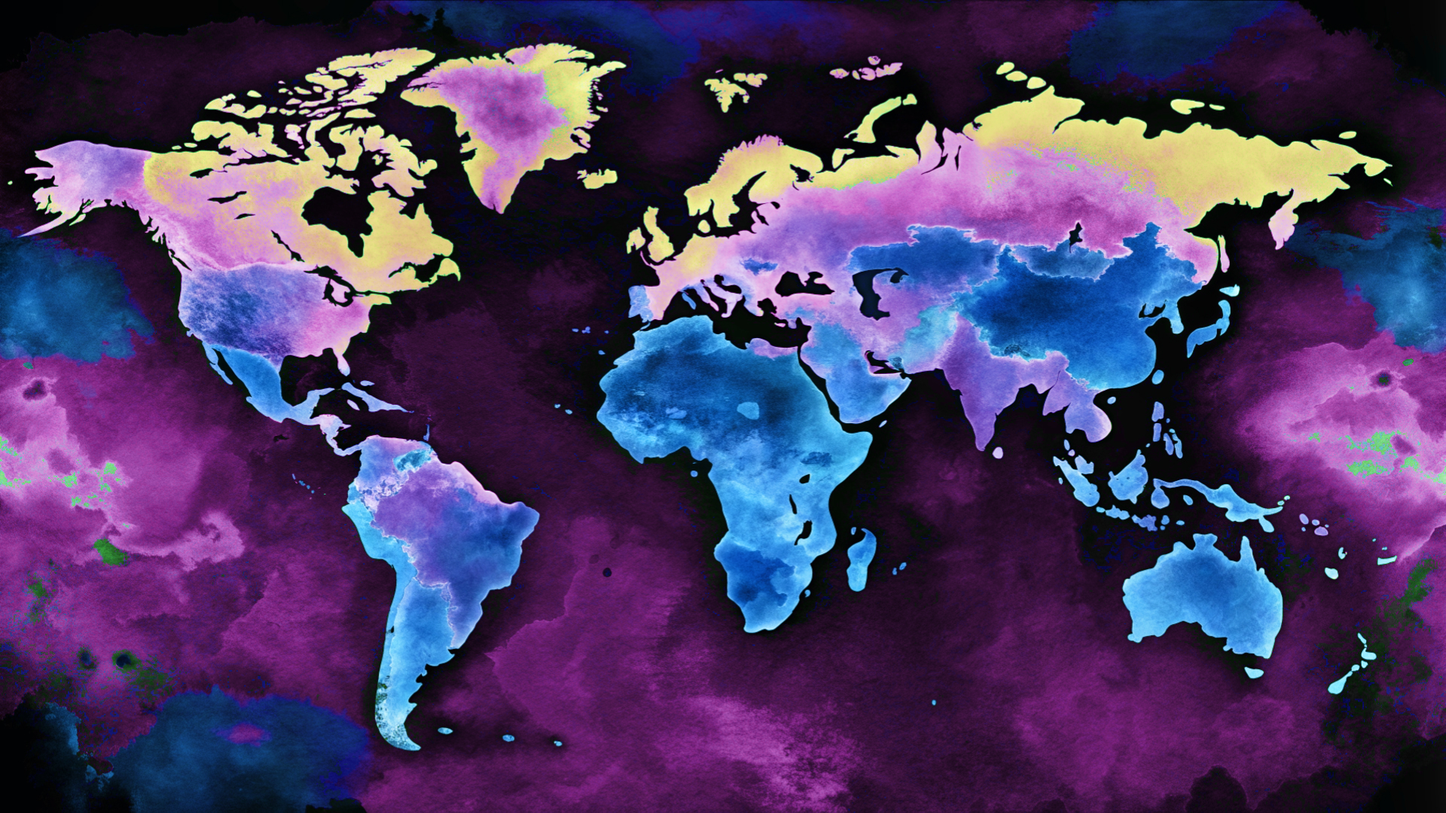
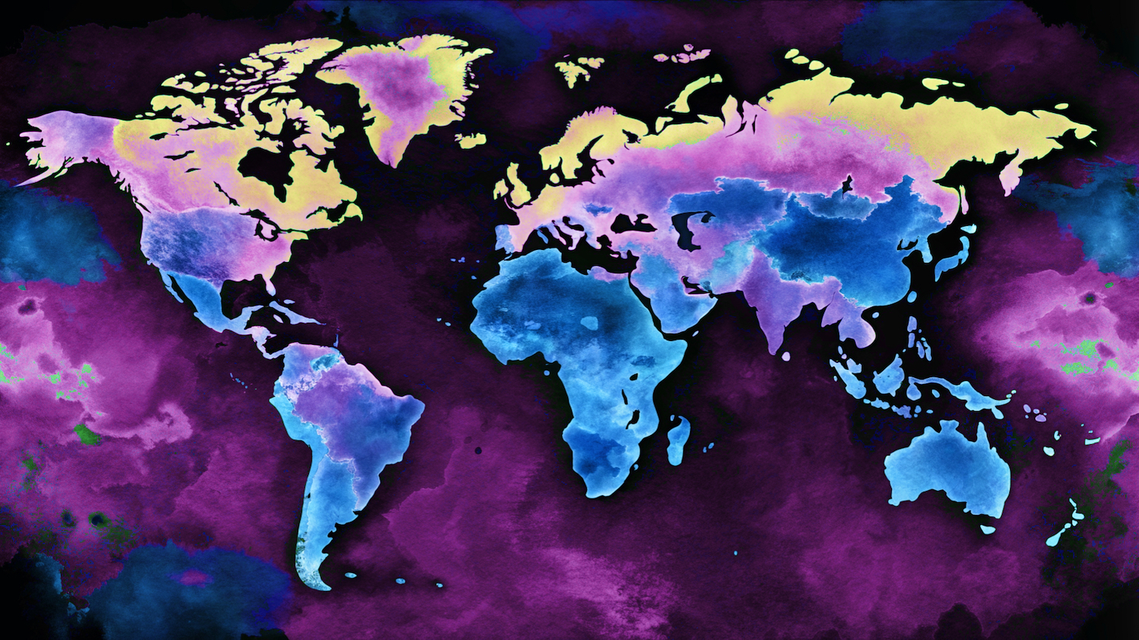
a

Changed region(s): [[0.2176, 0.1224, 0.2487, 0.1529], [0.0311, 0.2447, 0.0622, 0.2753]]

diff --git a/demos/adc-hero/index.html b/demos/adc-hero/index.html
@@ -13,7 +13,7 @@
             <h2>Unwrap competitors ads, spend, impressions and dive deep into their strategy.<br>5+Million panelists from 52 countries and counting</h2>
             <img src="images/screenshot.png" style="margin-top: 40px; z-index: 100; position: relative;" width="600px">
             
-            <img src="images/bg.jpg" data-particle-gap="6" data-mouse-force="-20" width="1496" class="next-particle">
+            <img src="images/bg.jpg" data-particle-gap="6" data-mouse-force="-20" class="next-particle">
 
         </div>
         

diff --git a/demos/adc-hero/styles.css b/demos/adc-hero/styles.css
@@ -7,6 +7,8 @@ body{
     background: black;
     color: white;
     text-align: center;
+    height: 100%;
+    background-image: url("images/bg2.jpg");
 }
 
 #hero h1{
